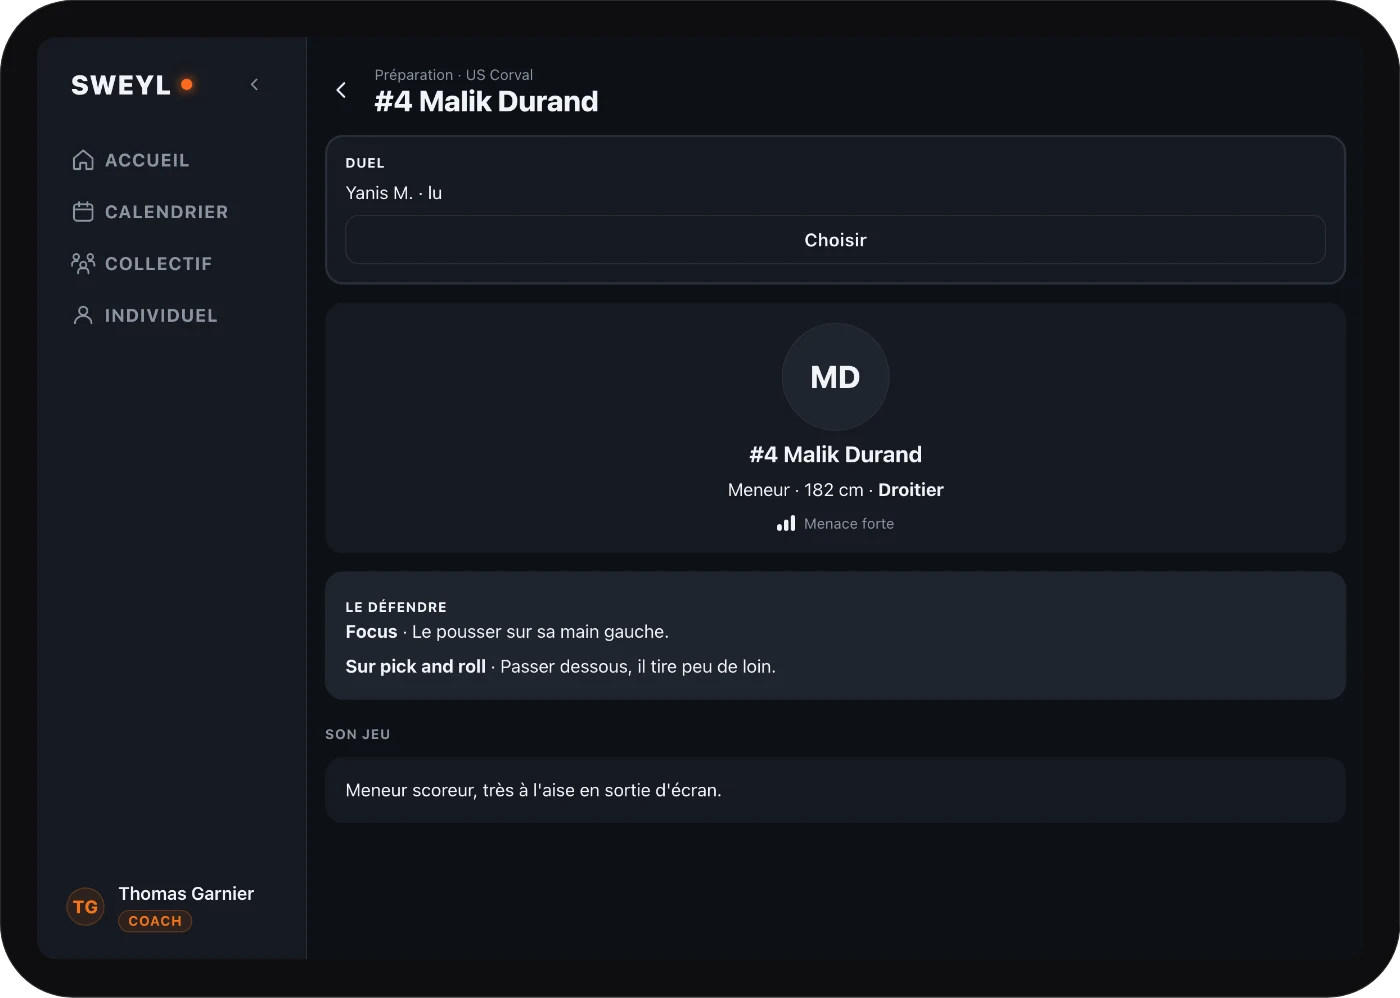
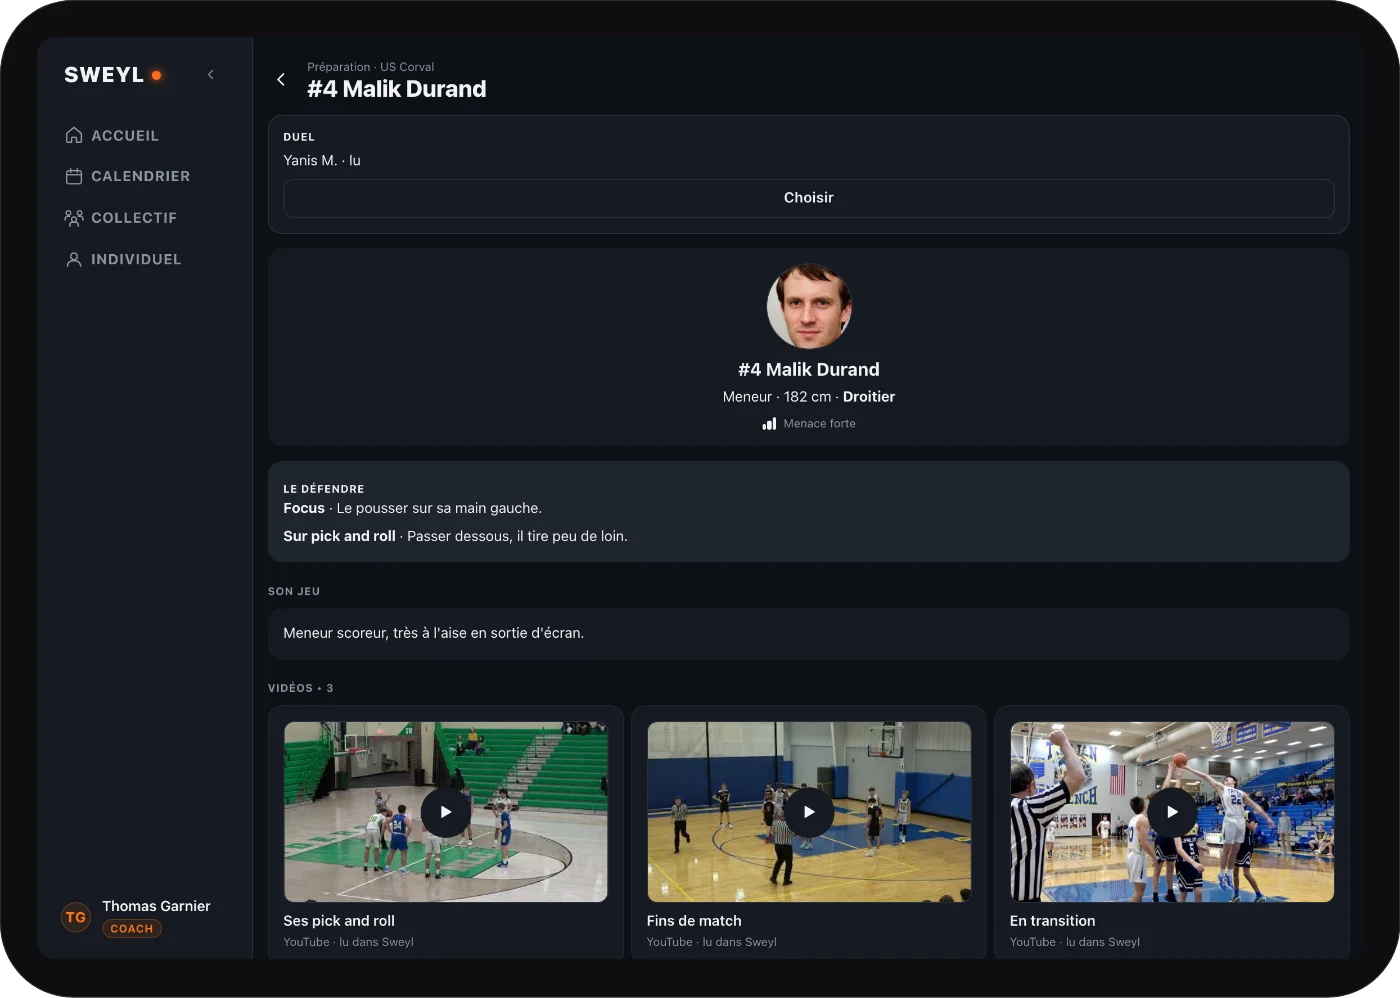
feat(pro): fiche adverse avec photo (visage généré) et vidéos, sur les trois appareils

diff --git a/CLAUDE.md b/CLAUDE.md
@@ -82,7 +82,11 @@ au **staff d'une équipe de prénationale à N1**, pas aux clubs amateurs.
 - **Captures** : une seule scène montre la même capture sur ordinateur, tablette et téléphone ;
   toutes les autres sont en tablette paysage. La vidéo se dit « tablette et ordinateur », jamais
   téléphone. Jamais le nom d'un vrai club adverse, jamais de vrai nom de personne (le compte de
-  démo en porte : on les renomme en base locale avant de capturer).
+  démo en porte : on les renomme en base locale avant de capturer). Une photo de joueur est un
+  visage **généré** (aucune personne réelle), les vidéos des fiches des liens YouTube publics.
+- **Le hero tient en un seul écran** à l'arrivée, comme l'accueil de sweyl.com : logo animé et
+  « SWEYL PRO », accroche, démo. Rien d'autre (l'index des piliers en est sorti pour aérer).
+- **Chaque titre porte son mot en orange**, écrit `*mot*` dans `copy.js` (rendu par `Accent.jsx`).
 - ⛔ **Jamais l'écran de saisie** dans une capture du site, aujourd'hui comme demain : on montre ce
   que la saisie produit (box score, analyse), pas le geste. Le texte peut dire qu'elle se fait
   « sur le même écran que les vôtres ».
